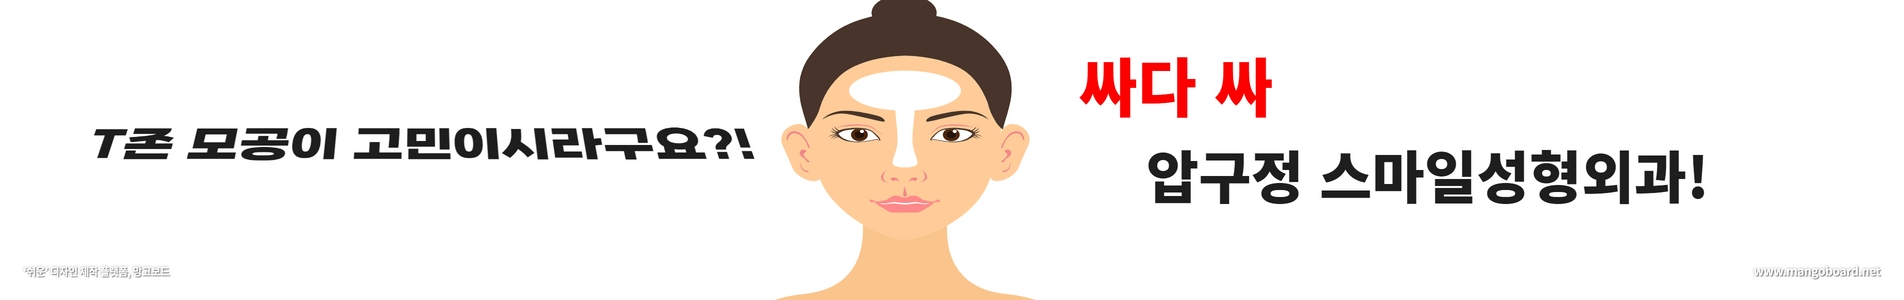
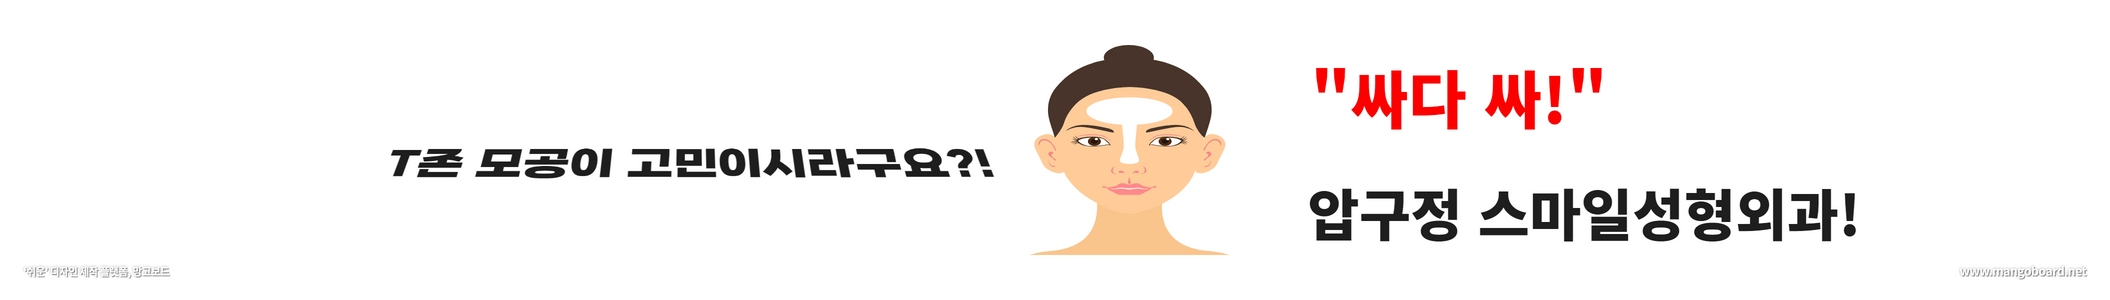
footer,header 수정및 배너 크기변경

Changed region(s): [[0.031, 0.0, 0.8986, 1.0], [0.0, 0.87, 0.093, 0.93], [0.9296, 0.9, 0.9916, 0.93]]

diff --git a/src/components/Footer/Footer.jsx b/src/components/Footer/Footer.jsx
@@ -1,21 +1,59 @@
 import styled from "styled-components";
-
+import Lottie from "lottie-react";
+import github2 from "../../assets/lottie/github2.json";
 function Footer() {
   return (
     <STFooter>
       <div className="inner">
         <div className="backEnd">
+          <h2>SPRING</h2>
+          <img src="/img/icons8-봄-로고-40.png" alt="spring" />
           <ul>
-            <li>KyuMin</li>
-            <li>Sora</li>
-            <li>ChumBaek</li>
+            <li>
+              KyuMin
+              <a href="https://github.com/starMinK">
+                https://github.com/starMinK
+              </a>
+            </li>
+            <li>
+              Sora
+              <a href="https://github.com/dev-rara">
+                https://github.com/dev-rara
+              </a>
+            </li>
+            <li>
+              ChumBaek
+              <a href="https://github.com/dev-rara">
+                https://github.com/starMinK
+              </a>
+            </li>
           </ul>
         </div>
+        <div className="github">
+          <Lottie animationData={github2} />
+        </div>
         <div className="frontEnd">
+          <h2>REACT</h2>
+          <img src="/img/icons8-반응하다-80.png" alt="spring" />
           <ul>
-            <li>SoYoung</li>
-            <li>JinYoung</li>
-            <li>SuMin</li>
+            <li>
+              SoYoung
+              <a href="https://github.com/dev-rara">
+                https://github.com/dev-rara
+              </a>
+            </li>
+            <li>
+              JinYoung
+              <a href="https://github.com/starMinK">
+                https://github.com/starMinK
+              </a>
+            </li>
+            <li>
+              SuMin
+              <a href="https://github.com/starMinK">
+                https://github.com/starMinK
+              </a>
+            </li>
           </ul>
         </div>
       </div>
@@ -25,19 +63,42 @@ function Footer() {
 
 const STFooter = styled.footer`
   background-color: #d85d9061;
-  width: 100%;
-  height: 60px;
+  width: 99%;
+  height: 230px;
   padding: 10px;
-  margin-top: 100px;
   div {
+    margin: 20px 0px 0px 20px;
     display: flex;
-    justify-content: space-between;
-    ul {
-      list-style: none;
-      justify-content: center;
-      li {
-        margin: 10px 0px 10px 10px;
-        font-size: 13px;
+    justify-content: center;
+    gap: 70px;
+    div {
+      h2 {
+        margin: 50px 10px 0px 0px;
+        font-size: 40px;
+        font-weight: bold;
+        color: #ffffff;
+      }
+      img {
+        margin: 30px 20px 0px 0px;
+        width: 80px;
+        height: 80px;
+      }
+      ul {
+        width: 450px;
+        list-style: none;
+        justify-content: center;
+        li {
+          margin: 10px 30px 30px 10px;
+          font-size: 20px;
+          font-weight: bold;
+          color: #ffffff;
+          a {
+            text-decoration-line: none;
+            margin-left: 20px;
+            font-size: 15px;
+            color: #07070792;
+          }
+        }
       }
     }
   }

diff --git a/src/components/Banner/Banner.jsx b/src/components/Banner/Banner.jsx
@@ -1,19 +1,25 @@
 import { Carousel } from "antd";
+import styled from "styled-components";
 
 function Banner() {
   return (
-    <Carousel autoplay>
-      <div>
-        <img src="/image/banner1.jpg" alt="" />
-      </div>
-      <div>
-        <img src="/image/banner2.jpg" alt="" />
-      </div>
-      <div>
-        <img src="/image/banner5.jpg" alt="" />
-      </div>
-    </Carousel>
+    <STCarousel>
+      <Carousel autoplay>
+        <div>
+          <img src="/image/banner 1.jpg" alt="" />
+        </div>
+        <div>
+          <img src="/image/banner 2.jpg" alt="" />
+        </div>
+        <div>
+          <img src="/image/banner5.jpg" alt="" />
+        </div>
+      </Carousel>
+    </STCarousel>
   );
 }
+const STCarousel = styled.div`
+  justify-content: center;
+`;
 
 export default Banner;

diff --git a/src/components/Header/Header.jsx b/src/components/Header/Header.jsx
@@ -11,7 +11,9 @@ function Header() {
             <Lottie animationData={face} />
           </a>
         </div>
-        {/* <div className="title">항해언니</div> */}
+        <a href="/" className="logo">
+          <div className="title">항해언니</div>
+        </a>
         <ul className="menu">
           <li>
             <a href="/logIn">로그인</a>
@@ -39,12 +41,14 @@ const STInner = styled.div`
   width: 100%;
   height: 80px;
   display: flex;
-  justify-content: space-between;
-  div.title {
-    margin: 20px 0px 0px 90px;
-    font-size: 40px;
-    font-weight: bold;
-    color: #fd00c6;
+  a {
+    text-decoration-line: none;
+    div.title {
+      margin: 40px 1600px 0px 0px;
+      font-size: 25px;
+      font-weight: bold;
+      color: #ffffff;
+    }
   }
 
   div.logo {

diff --git a/src/pages/Main.jsx b/src/pages/Main.jsx
@@ -3,7 +3,6 @@ import Banner from "../components/Banner/Banner";
 import Header from "../components/Header/Header";
 import Mainbody from "../components/MainBody/Mainbody";
 import Footer from "../components/Footer/Footer";
-import CardSlider from "../components/Card/CardSlider";
 
 function Main() {
   return (

diff --git a/src/components/layout/Layout.jsx b/src/components/layout/Layout.jsx
@@ -14,6 +14,7 @@ const Layout = ({ children }) => {
 const StLayout = styled.div`
   max-width: 1200px;
   min-width: 800px;
+  min-height: 500px;
   margin: 0 auto;
   padding-top: 30px;
   @font-face {
